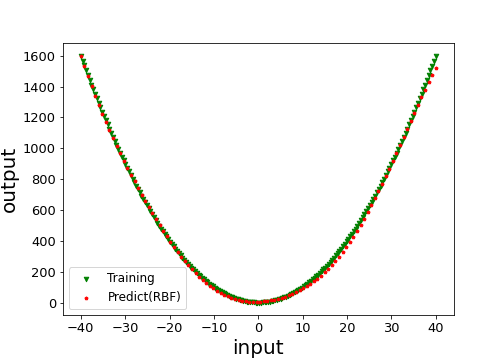
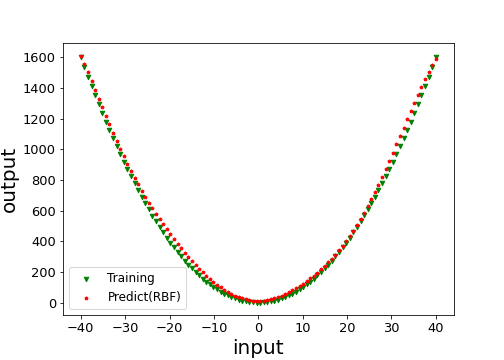
Use min_max_scaler in data preprocessing

diff --git a/Chapter6.py b/Chapter6.py
@@ -61,22 +61,12 @@ model_rbf.add(tf.keras.layers.Dense(1))
 model_rbf.compile(loss='mean_squared_error', optimizer=tf.keras.optimizers.Adam(0.1))
 model_rbf.fit(listex,listey, epochs=1000, verbose=0)
 
-set_seed(12345)
-model_relu = tf.keras.Sequential()
-model_relu.add(tf.keras.layers.Dense(5,activation='relu'))
-model_relu.add(tf.keras.layers.Dense(1))
-model_relu.compile(loss='mean_squared_error', optimizer=tf.keras.optimizers.Adam(0.01))
-model_relu.fit(listex,listey, epochs=1500, verbose=0)
-
 preds_rbf = []
-preds_relu = []
 size = 100
 for j in np.linspace(-a,a,size):
     preds_rbf.append(model_rbf.predict([j]))
-    preds_relu.append(model_relu.predict([j]))
     
-fig, ax = plt.subplots()
-fig.set_size_inches(7, 5)
+fig = plt.figure(figsize=(7,5))
 plt.xticks(fontsize=13, rotation=0)
 plt.yticks(fontsize=13, rotation=0)
 plt.xlabel('input',fontsize=20)
@@ -87,41 +77,32 @@ plt.legend(prop={'size': 12});
 fig.savefig("images/NN_before_scale.png");
 
 #### After Scaling #####
-a = 40
-np.random.seed(12345)
-listex2 = np.linspace(-1,1,200)
-listey2 = ((a*listex2)**2 + 0.1*np.random.normal(0, 1, len(listex2)) )/a**2
+data = np.array((listex,listey)).T
+scaler = MinMaxScaler((-1,1))
+data_trans = scaler.fit_transform(data)
+xmax, ymax = scaler.data_max_
+xmin, ymin = scaler.data_min_
 
 set_seed(12345)
 model_rbf2 = tf.keras.Sequential()
 model_rbf2.add(tf.keras.layers.Dense(5,activation=rbf))
 model_rbf2.add(tf.keras.layers.Dense(1))
 model_rbf2.compile(loss='mean_squared_error', optimizer=tf.keras.optimizers.Adam(0.1))
-model_rbf2.fit(listex2,listey2, epochs=1000, verbose=0)
+model_rbf2.fit(data_trans[:,0],data_trans[:,1],epochs=1000, verbose=0)
 
-set_seed(12345)
-model_relu2 = tf.keras.Sequential()
-model_relu2.add(tf.keras.layers.Dense(5,activation='relu'))
-model_relu2.add(tf.keras.layers.Dense(1))
-model_relu2.compile(loss='mean_squared_error', optimizer=tf.keras.optimizers.Adam(0.01))
-model_relu2.fit(listex2,listey2, epochs=1500, verbose=0)
+x_test = np.linspace(xmin,xmax,100).reshape(-1,1)
+scaler = MinMaxScaler((-1,1))
+x_test_trans = scaler.fit_transform(x_test) 
+preds_rbf_trans = model_rbf2.predict(x_test_trans)
+preds_rbf2 = (preds_rbf_trans+1)*(ymax-ymin)/2+ymin
 
-preds_rbf2 = []
-preds_relu2 = []
-size = 100
-x = np.linspace(-1,1,size)
-for j in x:
-    preds_rbf2.append(model_rbf2.predict([j]))
-    preds_relu2.append(model_relu2.predict([j]))
-    
-fig, ax = plt.subplots()
-fig.set_size_inches(7, 5)
+fig = plt.figure(figsize=(7,5))
 plt.xticks(fontsize=13, rotation=0)
 plt.yticks(fontsize=13, rotation=0)
 plt.xlabel('input',fontsize=20)
 plt.ylabel("output",fontsize=20)
-plt.scatter(a*listex2, a**2*listey2, s=20, marker='v',color='g', label="Training")     #size of point
-plt.scatter(np.linspace(-a,a,size), a**2*np.array(preds_rbf2), s=10, marker='p', color='r', label="Predict(RBF)")
+plt.scatter(listex, listey, s=20, marker='v',color='g', label="Training")     #size of point
+plt.scatter(x_test, preds_rbf2, s=10, marker='p', color='r', label="Predict(RBF)")
 plt.legend(prop={'size': 12});
 fig.savefig("images/NN_after_scale.png");
 
